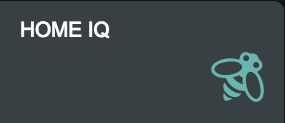
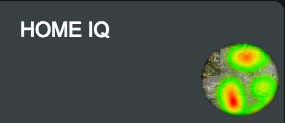
Added new home-iq img.  cleaned up a few things in loudness.js and server.js for realiability.  Modified send_to_node to be run from rpi

Changed region(s): [[0.7018, 0.3415, 0.9825, 0.9512]]

diff --git a/server.js b/server.js
@@ -25,17 +25,19 @@ app.get('/heatmap', function(req, res){
 });
 
 // Socket.io Logic
+var zmqsock = zmq.socket('pull');
 io.on('connection', function (socket) {
   console.log('socket.io connection made');
-  var zmqsock = zmq.socket('pull');
   zmqsock.bind(rpi);
   zmqsock.on('message', function(msg){
     msg = msg.toString();
     var msgtype = msg.charAt(0);
     msg = msg.substr(1);
     
-    if(msgtype === 'l')
+    if(msgtype === 'l'){
       socket.emit('loudness', msg);
+      console.log('sending loudness msg');
+    }
     else{
       socket.emit('fft', msg);
       console.log('sending fft msg');

diff --git a/public/js/loudness.js b/public/js/loudness.js
@@ -13,6 +13,7 @@ loudchart.streamTo(document.getElementById("smoothie-chart"), 500);
 
 // Recieve Loudness data
 socket.on('loudness', function(data){
+  console.log('received loudness data:', data);
   if(!data)
     return;
 

diff --git a/audio/send_to_node.py b/audio/send_to_node.py
@@ -12,11 +12,42 @@ RATE = 48000
 FORMAT = pyaudio.paFloat32
 
 
+class Loudness(object):
+    def __init__(self, windowlength=50, numBuffers=4):
+        self.numBuffers = numBuffers
+        self.bufcount = 0
+        self.buf = np.array([], dtype=np.float32)
+        self.rms_queue = []
+        self.windowlength = windowlength
+
+    def addSamples(self, samples):
+        """samples is a string of bytes"""
+        self.buf = np.append(
+            self.buf,
+            np.fromstring(
+                samples,
+                dtype=np.float32))
+        self.bufcount += 1
+        if self.bufcount >= self.numBuffers:
+            self.bufcount = 0
+            rms = np.sqrt(np.mean(np.square(self.buf)))
+            self.buf = np.array([], dtype=np.float32)
+            return self.addRMS(rms)
+        return False
+
+    def addRMS(self, val):
+        self.rms_queue.append(val)
+        if len(self.rms_queue) >= self.windowlength:
+            return True, self.rms_queue.pop(0)
+        return False
+
+
 class AudioBuffer(object):
     """Class for buffering port audio samples and
     performing Loudness and FFT measurements"""
     def __init__(self, zmqSocket, loudDelay=1024, fftlength=5):
-        self.lqueue = ""
+        # self.lqueue = ""
+        self.lqueue = Loudness()
         self.fqueue = ""
         self.fcount = 0
         self.lcount = 0
@@ -27,28 +58,15 @@ class AudioBuffer(object):
 
     def addSamples(self, samples):
         # maybe add samples recursively to the loudness buf
-        self.lqueue = ''.join([self.lqueue, samples])
+        lready = self.lqueue.addSamples(samples)
         self.fqueue = ''.join([self.fqueue, samples])
-        self.lcount += CHUNK
         self.fcount += CHUNK
-        if self.lcount >= self.loudDelay:
-            self.calcLoudness()
         if self.fcount >= self._fftlength:
             self.calcFFT()
-
-    def calcLoudness(self):
-        """Convert to numpy array.
-        Calculate the loudness on the samples in the loudness queue.
-        Send ZMQ message.
-        Clear fqueue."""
-        print "fire loudness!"
-
-        # calc loudness
-        arr = np.fromstring(self.lqueue, dtype=np.float32)
-
-        # send ZMQ message
-
-        self.lqueue = ""
+        if lready:
+            _, lval = lready
+            #print "fire loudness!"
+            self.sock.send('l' + json.dumps({'value': 10.*log(lval)}))
 
     def calcFFT(self):
         """Convert to numpy array.
@@ -56,11 +74,11 @@ class AudioBuffer(object):
         Send ZMQ message.
         Clear fqueue."""
         arr = np.fromstring(self.fqueue, dtype=np.float32)
-        fft = np.fft.fft(arr)[:len(arr)/2:10]
+        fft = np.fft.fft(arr)[:len(arr)/2:50]
         mag = map(abs, fft)
         # don't send all values we don't need that pinpoint accuracy
         # maybe every 10 values
-        print "fire fft"
+        #print "fire fft"
 
         self.sock.send('f' + json.dumps({
             'nsamp': len(mag),
@@ -85,10 +103,10 @@ class AudioBuffer(object):
         self._fftlength = val
 
 
-def main(ip="127.0.0.1"):
+def main(ip='tcp://127.0.0.1:7777'):
     ctx = zmq.Context()
     s = ctx.socket(zmq.PUSH)
-    s.connect('tcp://127.0.0.1:7777')
+    s.connect(ip)
     buffer = AudioBuffer(s)
 
     p = pyaudio.PyAudio()
